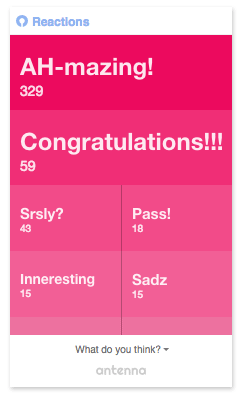
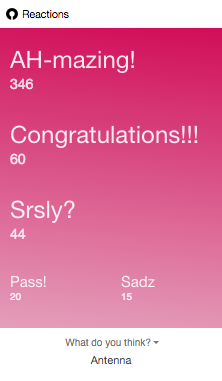
homepage update to show prettier widget

diff --git a/rb/templates/home.html b/rb/templates/home.html
@@ -42,7 +42,7 @@
                   <span class="speaker"></span>
               </div>
               <div class="phone-screen">
-                  <iframe src="https://player.vimeo.com/video/146722791?autoplay=1&loop=1" class="no-ant" frameborder="0" webkitallowfullscreen mozallowfullscreen allowfullscreen></iframe>
+                  <iframe src="https://player.vimeo.com/video/147902909?autoplay=1&loop=1" class="no-ant" frameborder="0" webkitallowfullscreen mozallowfullscreen allowfullscreen></iframe>
               </div>
               <div class="circle-button"></div>
           </div>
@@ -131,10 +131,10 @@
       <div class="col s12 center-align examples">
         <img src="{{ STATIC_URL }}site/images/example_default.png" />
         <img src="{{ STATIC_URL }}site/images/example_perez.png" />
-        <img src="{{ STATIC_URL }}site/images/example_esplota.png" />
-        <img src="{{ STATIC_URL }}site/images/example_dlisted.png" />
-        <img src="{{ STATIC_URL }}site/images/example_cheatsheet.png" />
-        <img src="{{ STATIC_URL }}site/images/example_bigroundtable.png" />
+        <img src="{{ STATIC_URL }}site/images/example_wral.png" />
+        <!-- <img src="{{ STATIC_URL }}site/images/example_dlisted.png" /> -->
+        <img src="{{ STATIC_URL }}site/images/example_fox.png" />
+        <img src="{{ STATIC_URL }}site/images/example_random.png" />
       </div>
     </div>
   </div>
@@ -158,7 +158,7 @@
         </div>
       </div>
       <div class="col m4 center-align hide-on-small-only">
-        <img src="{{ STATIC_URL }}site/images/success.png" />
+        <img src="{{ STATIC_URL }}site/images/success.png" style="box-shadow:0px 0px 40px #aaa;" />
       </div>
     </div>
   </div>
@@ -168,7 +168,7 @@
   <div class="container">
     <div class="row">
       <div class="col s12 m4 center-align">
-        <img src="{{ STATIC_URL }}site/images/alexis.jpg" class="circle no-ant" />
+        <img src="{{ STATIC_URL }}site/images/alexis.jpg" class="no-ant" style="border-radius:50%;" />
       </div>
       <div class="col s12 m8">
         <blockquote>

diff --git a/rb/templates/base/base.html b/rb/templates/base/base.html
@@ -8,7 +8,7 @@
   <title>{% block page_title %}Antenna{% endblock %}</title>
   <meta name="description" content="{% block page_description %}How the web reacts{% endblock %}">
 
-  <link rel="stylesheet" href="{{ STATIC_URL }}site/css/styles.min.css?rv=5">
+  <link rel="stylesheet" href="{{ STATIC_URL }}site/css/styles.min.css?rv=6">
   <script src="//code.jquery.com/jquery-2.1.4.min.js"></script>
   <script src="{{ STATIC_URL }}site/js/antenna-web.min.js"></script>
 
